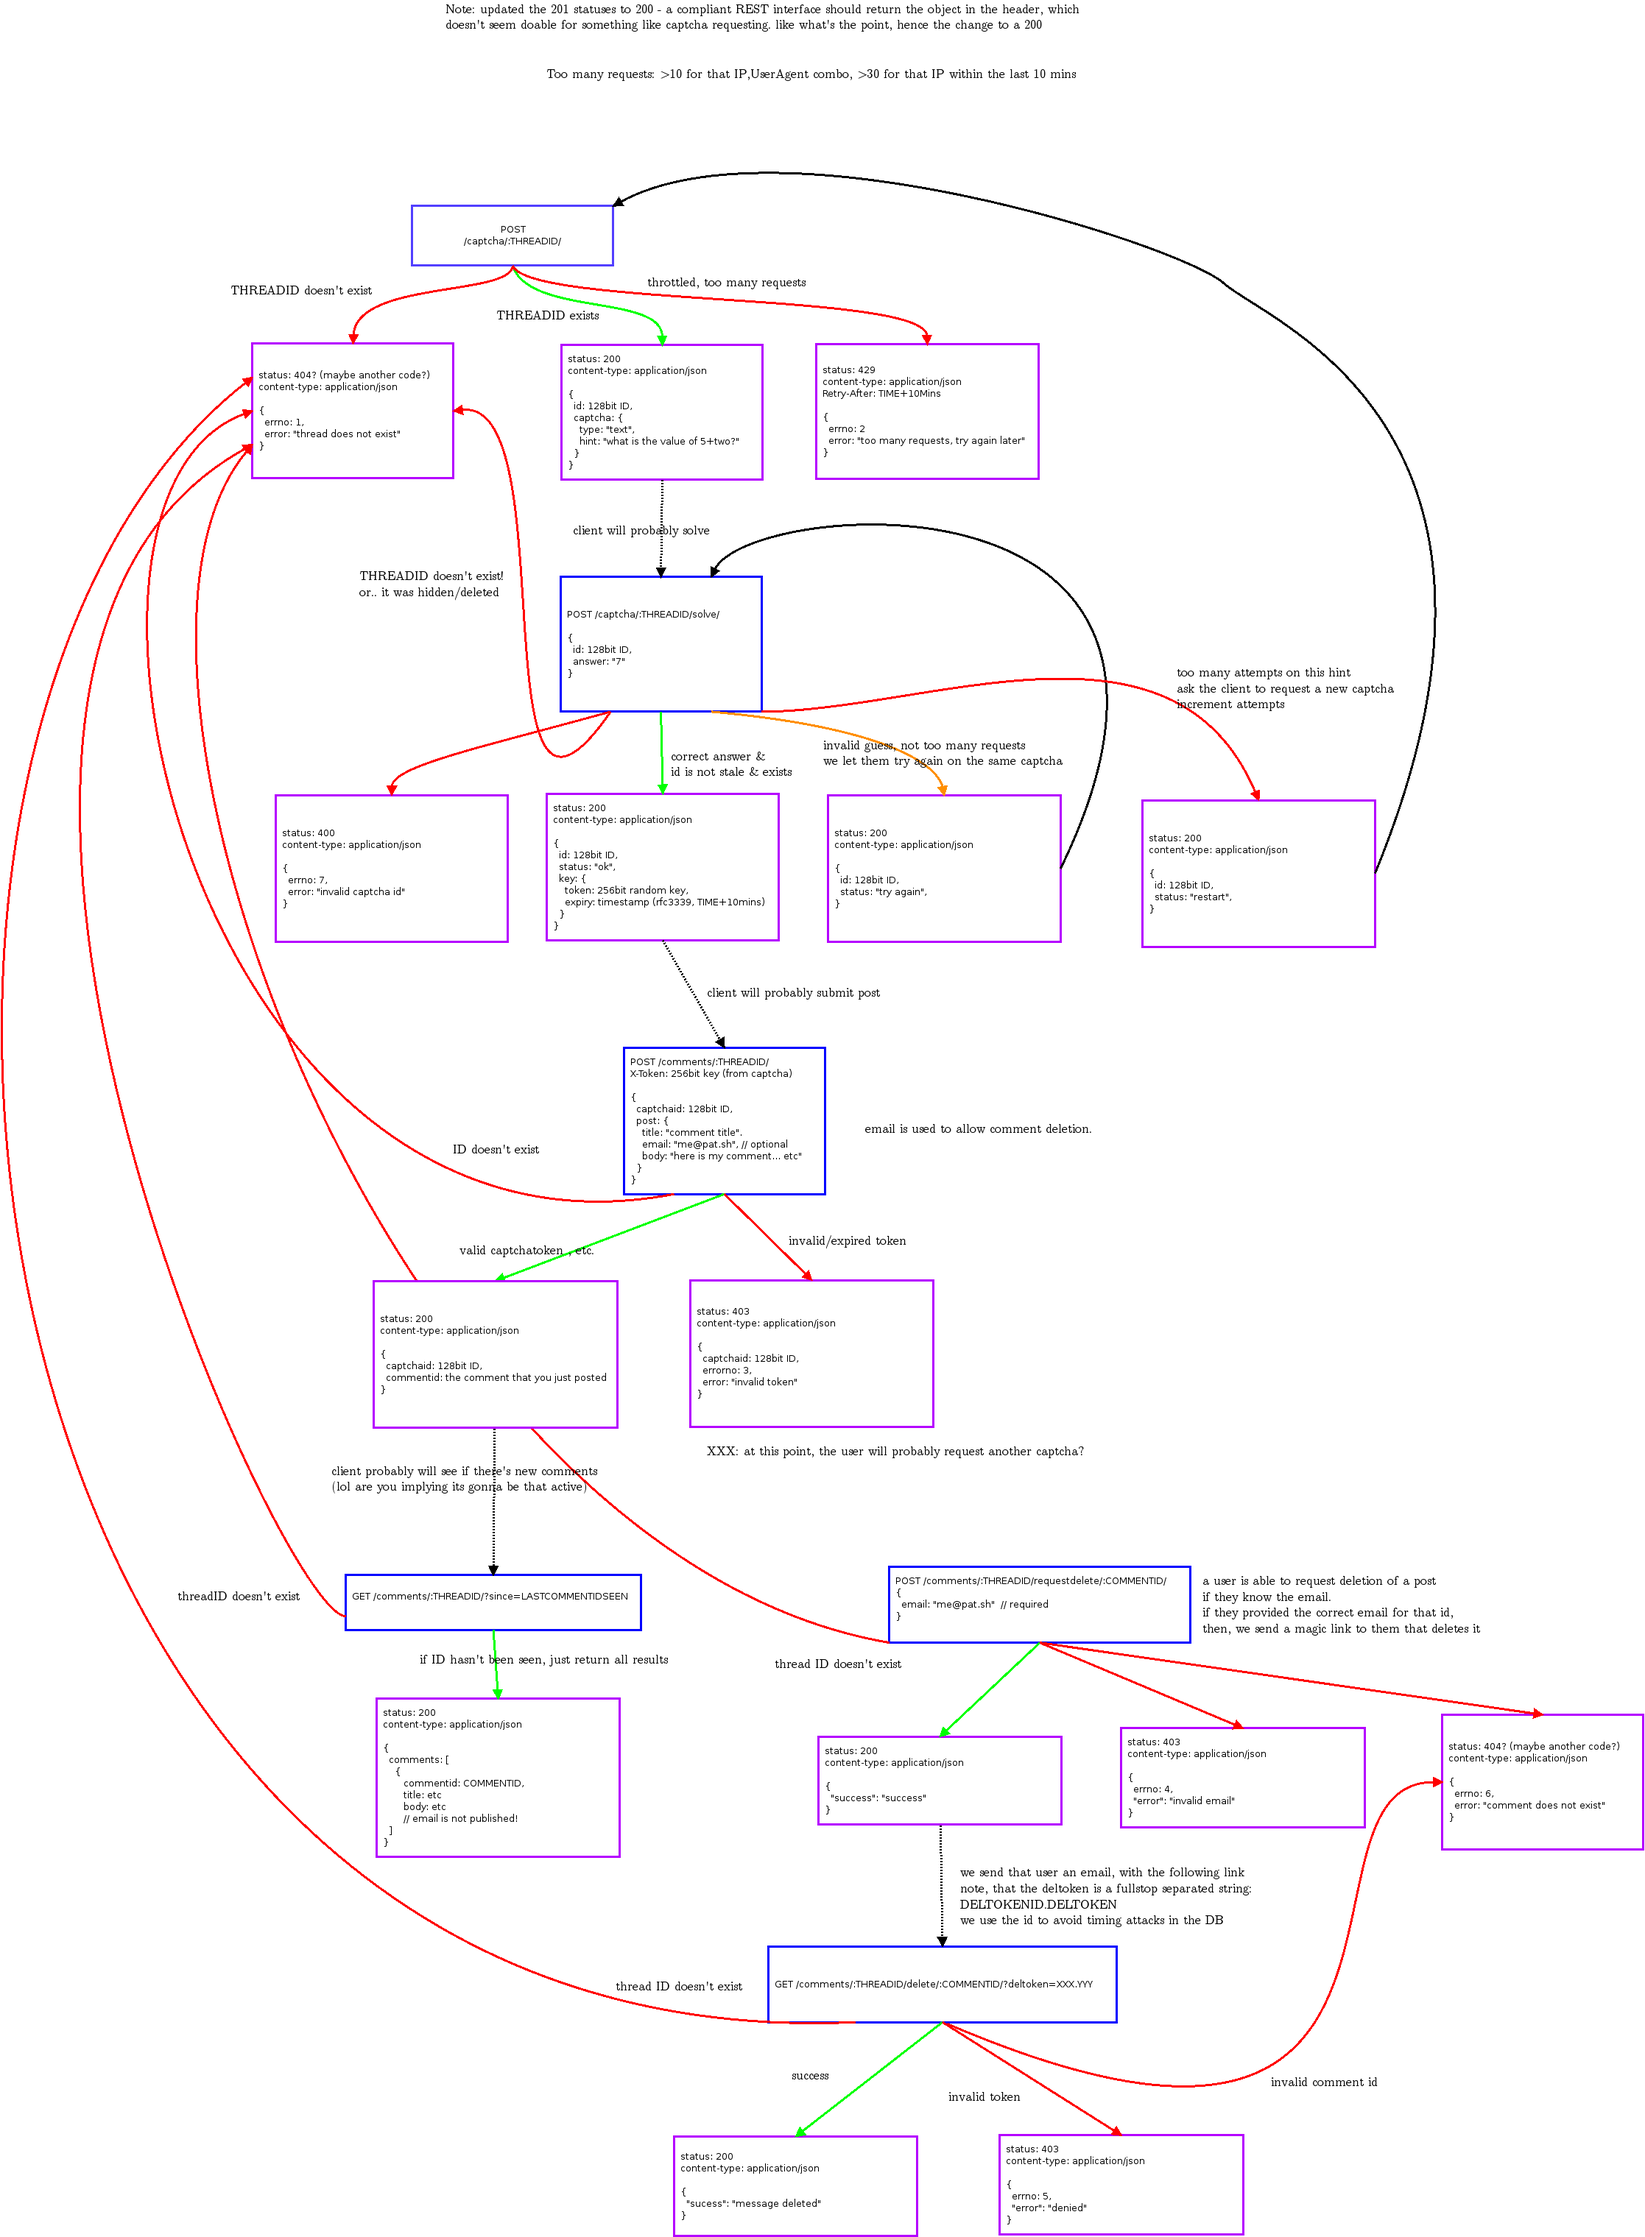
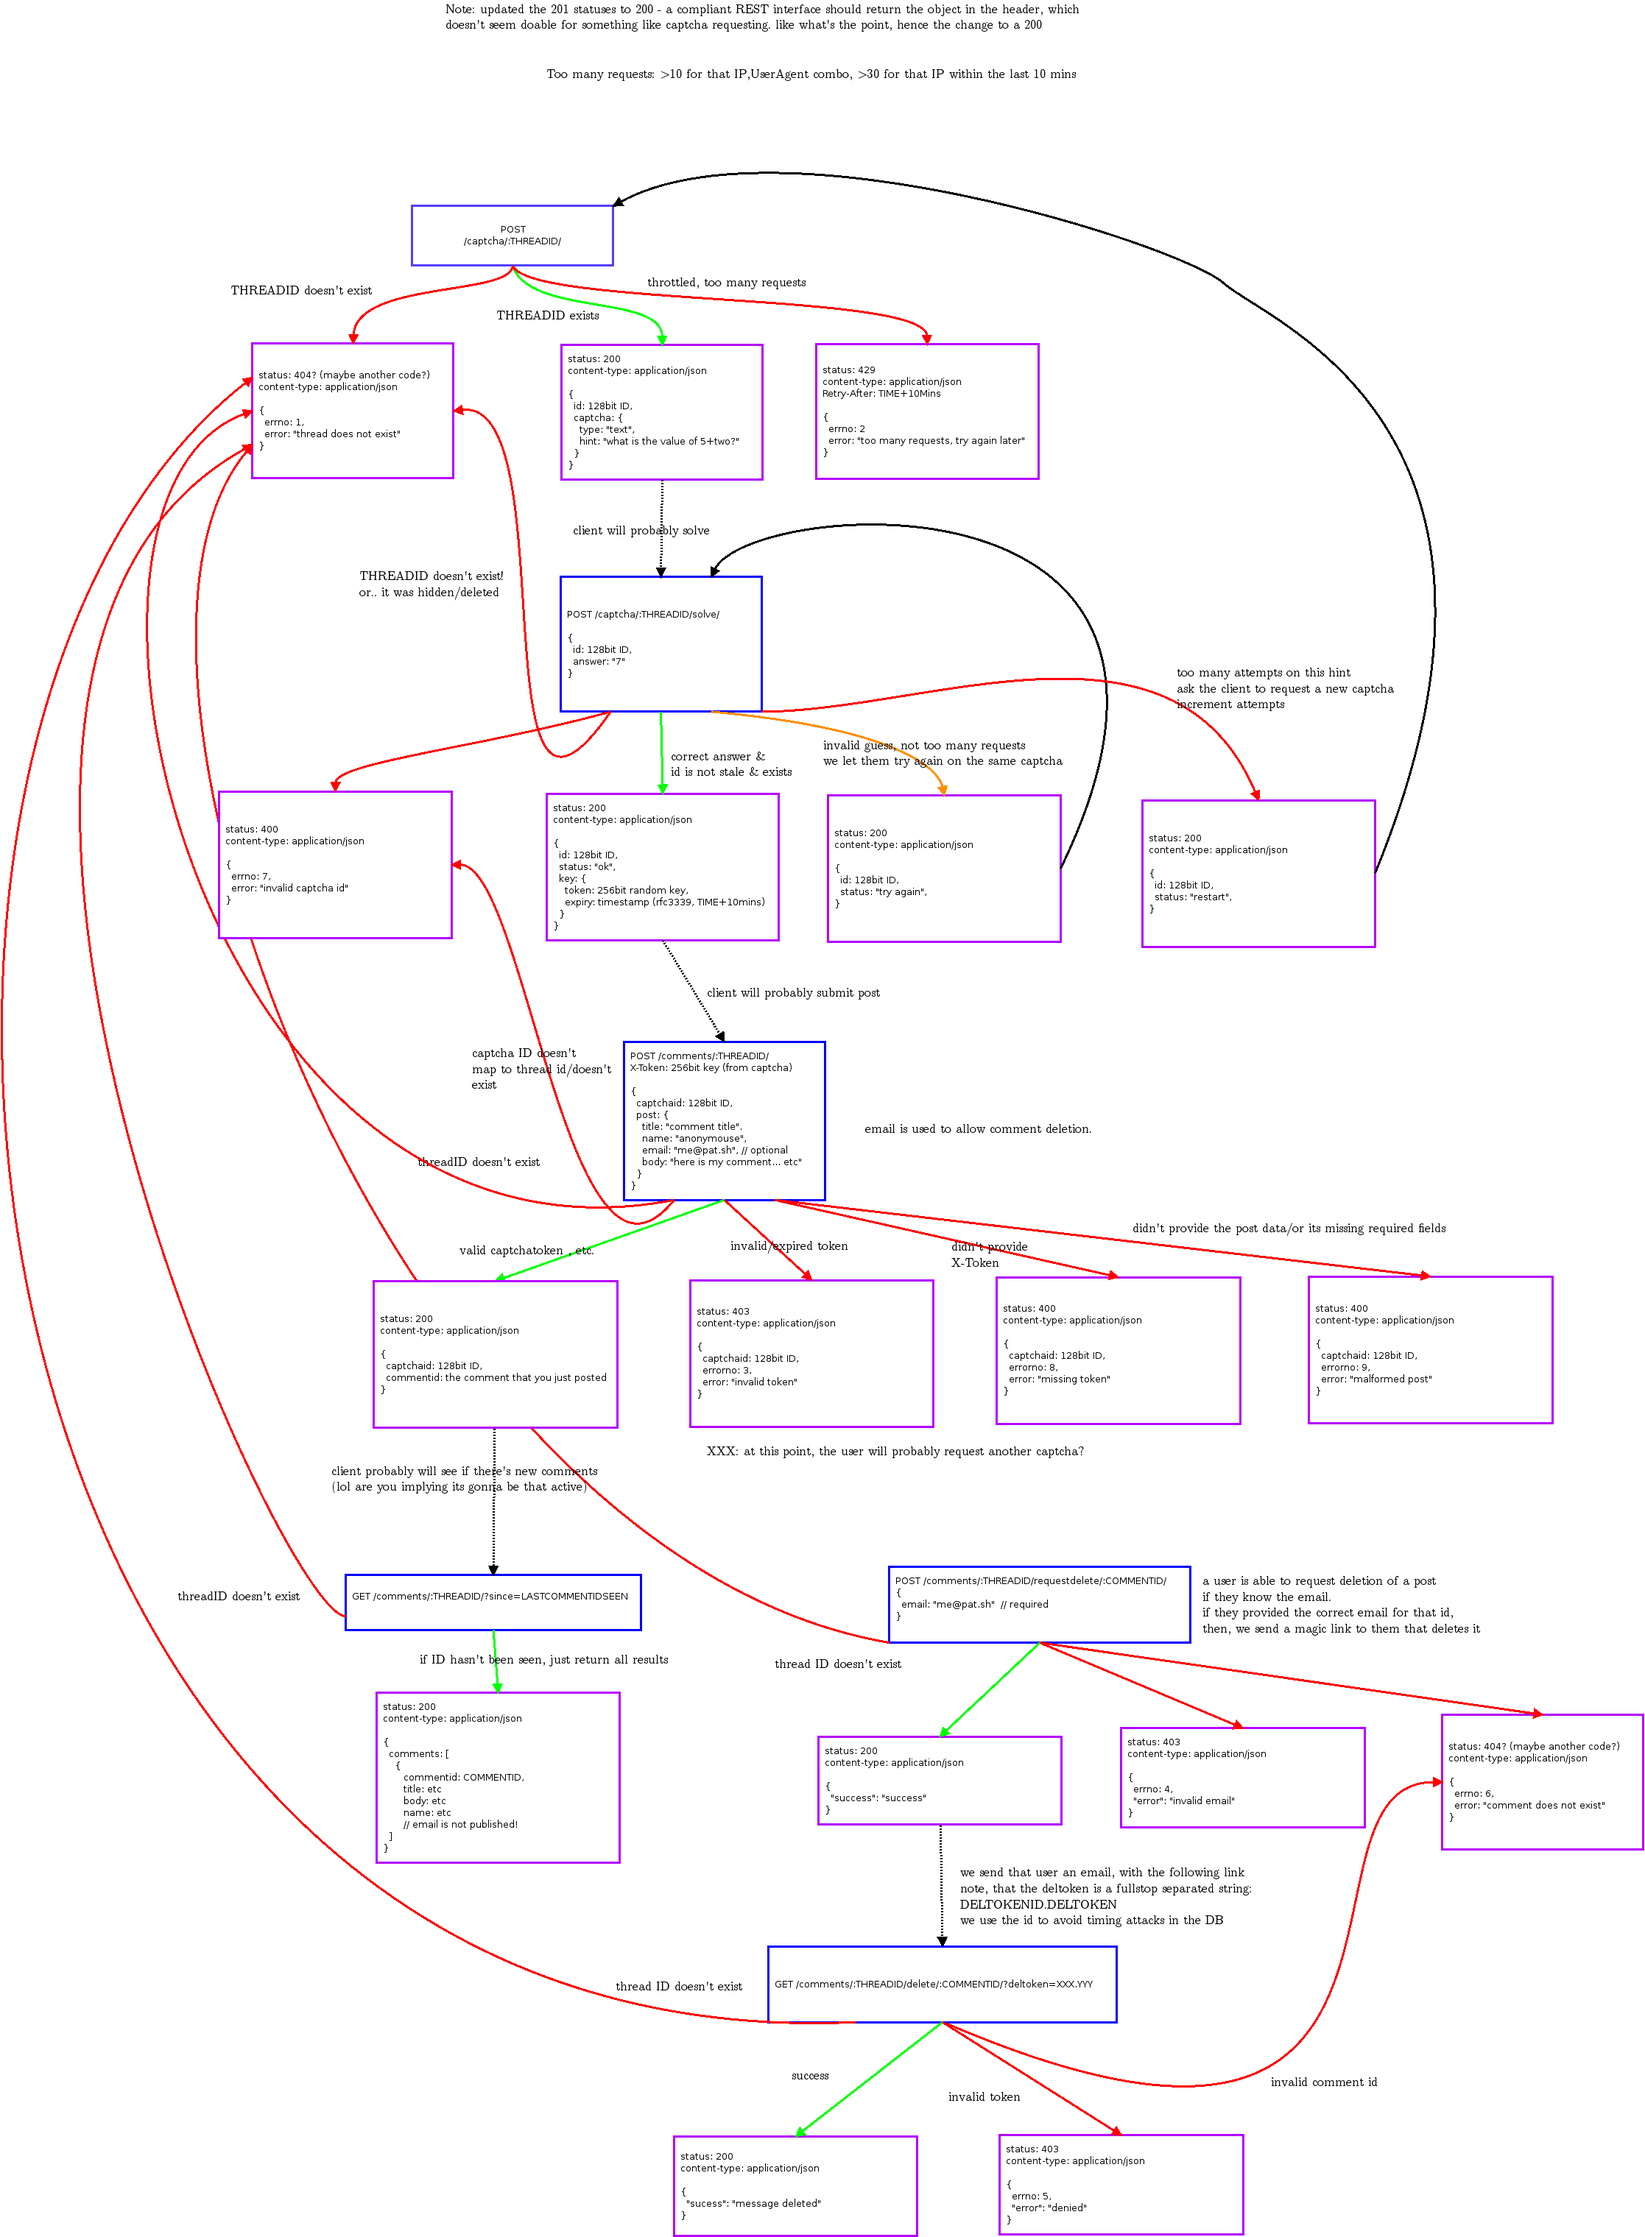
minor changes to protocol diagram, and added readme

diff --git a/README.md b/README.md
@@ -1,0 +1,21 @@
+# Yet Another Blog Generator
+
+Yes, it's yet another blog generator. 
+
+## Features
+ - [X] Comment/Captcha API
+ - [ ] Static site generation
+ - [ ] Customisable templates
+
+Yeah, it's a real work in progress.
+
+## Why?
+I designed this as an exercise in developing a light-weight, and secure blogging platform. I want to use it for my blog, which will probably live over at https://blog.pat.sh/
+
+
+## Bug Bounty
+> Are you telling me a hobby project has a bug bounty?
+
+Sure, well, security bugs that is. I don't really have much money, but I do make shirts, so I'm happy to make one and send it to you. Email me if you find something relatively serious (I guess something thats within the OWASP Top 10?) - example, XSS, SQLi, CSRF, etc.
+
+This link will eventually work: [you can find all my shirts here](https://pat.sh/shirts)
